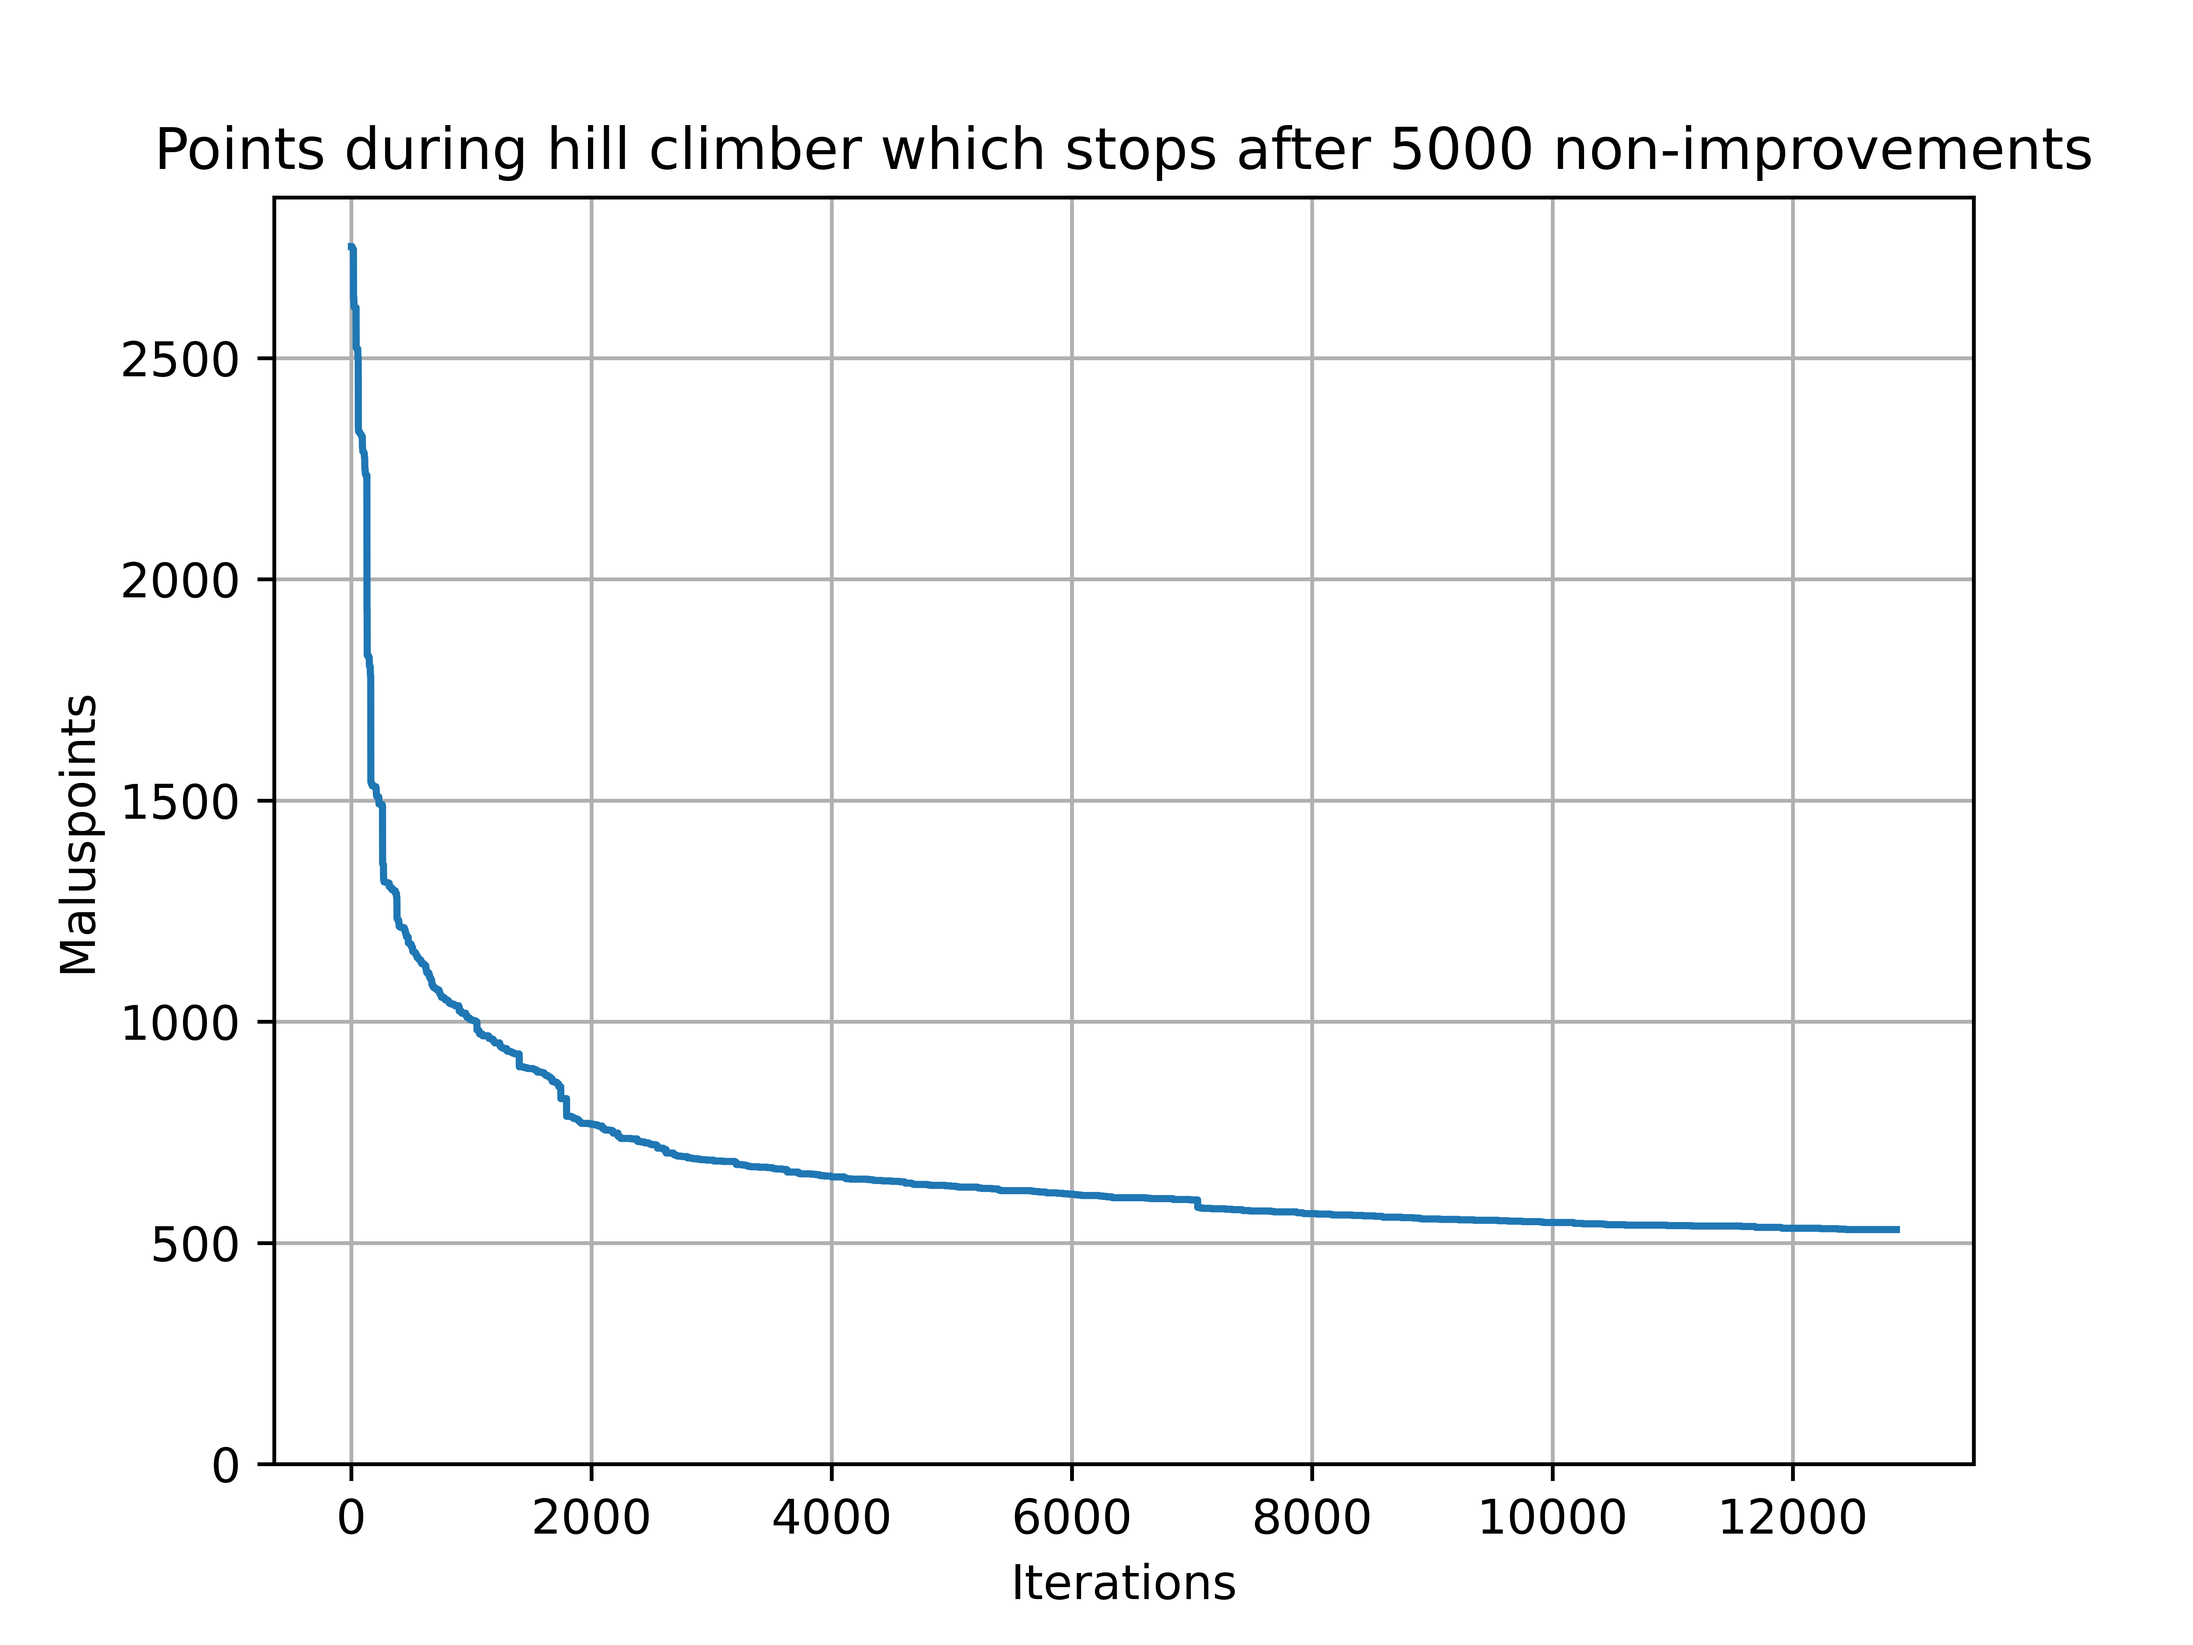
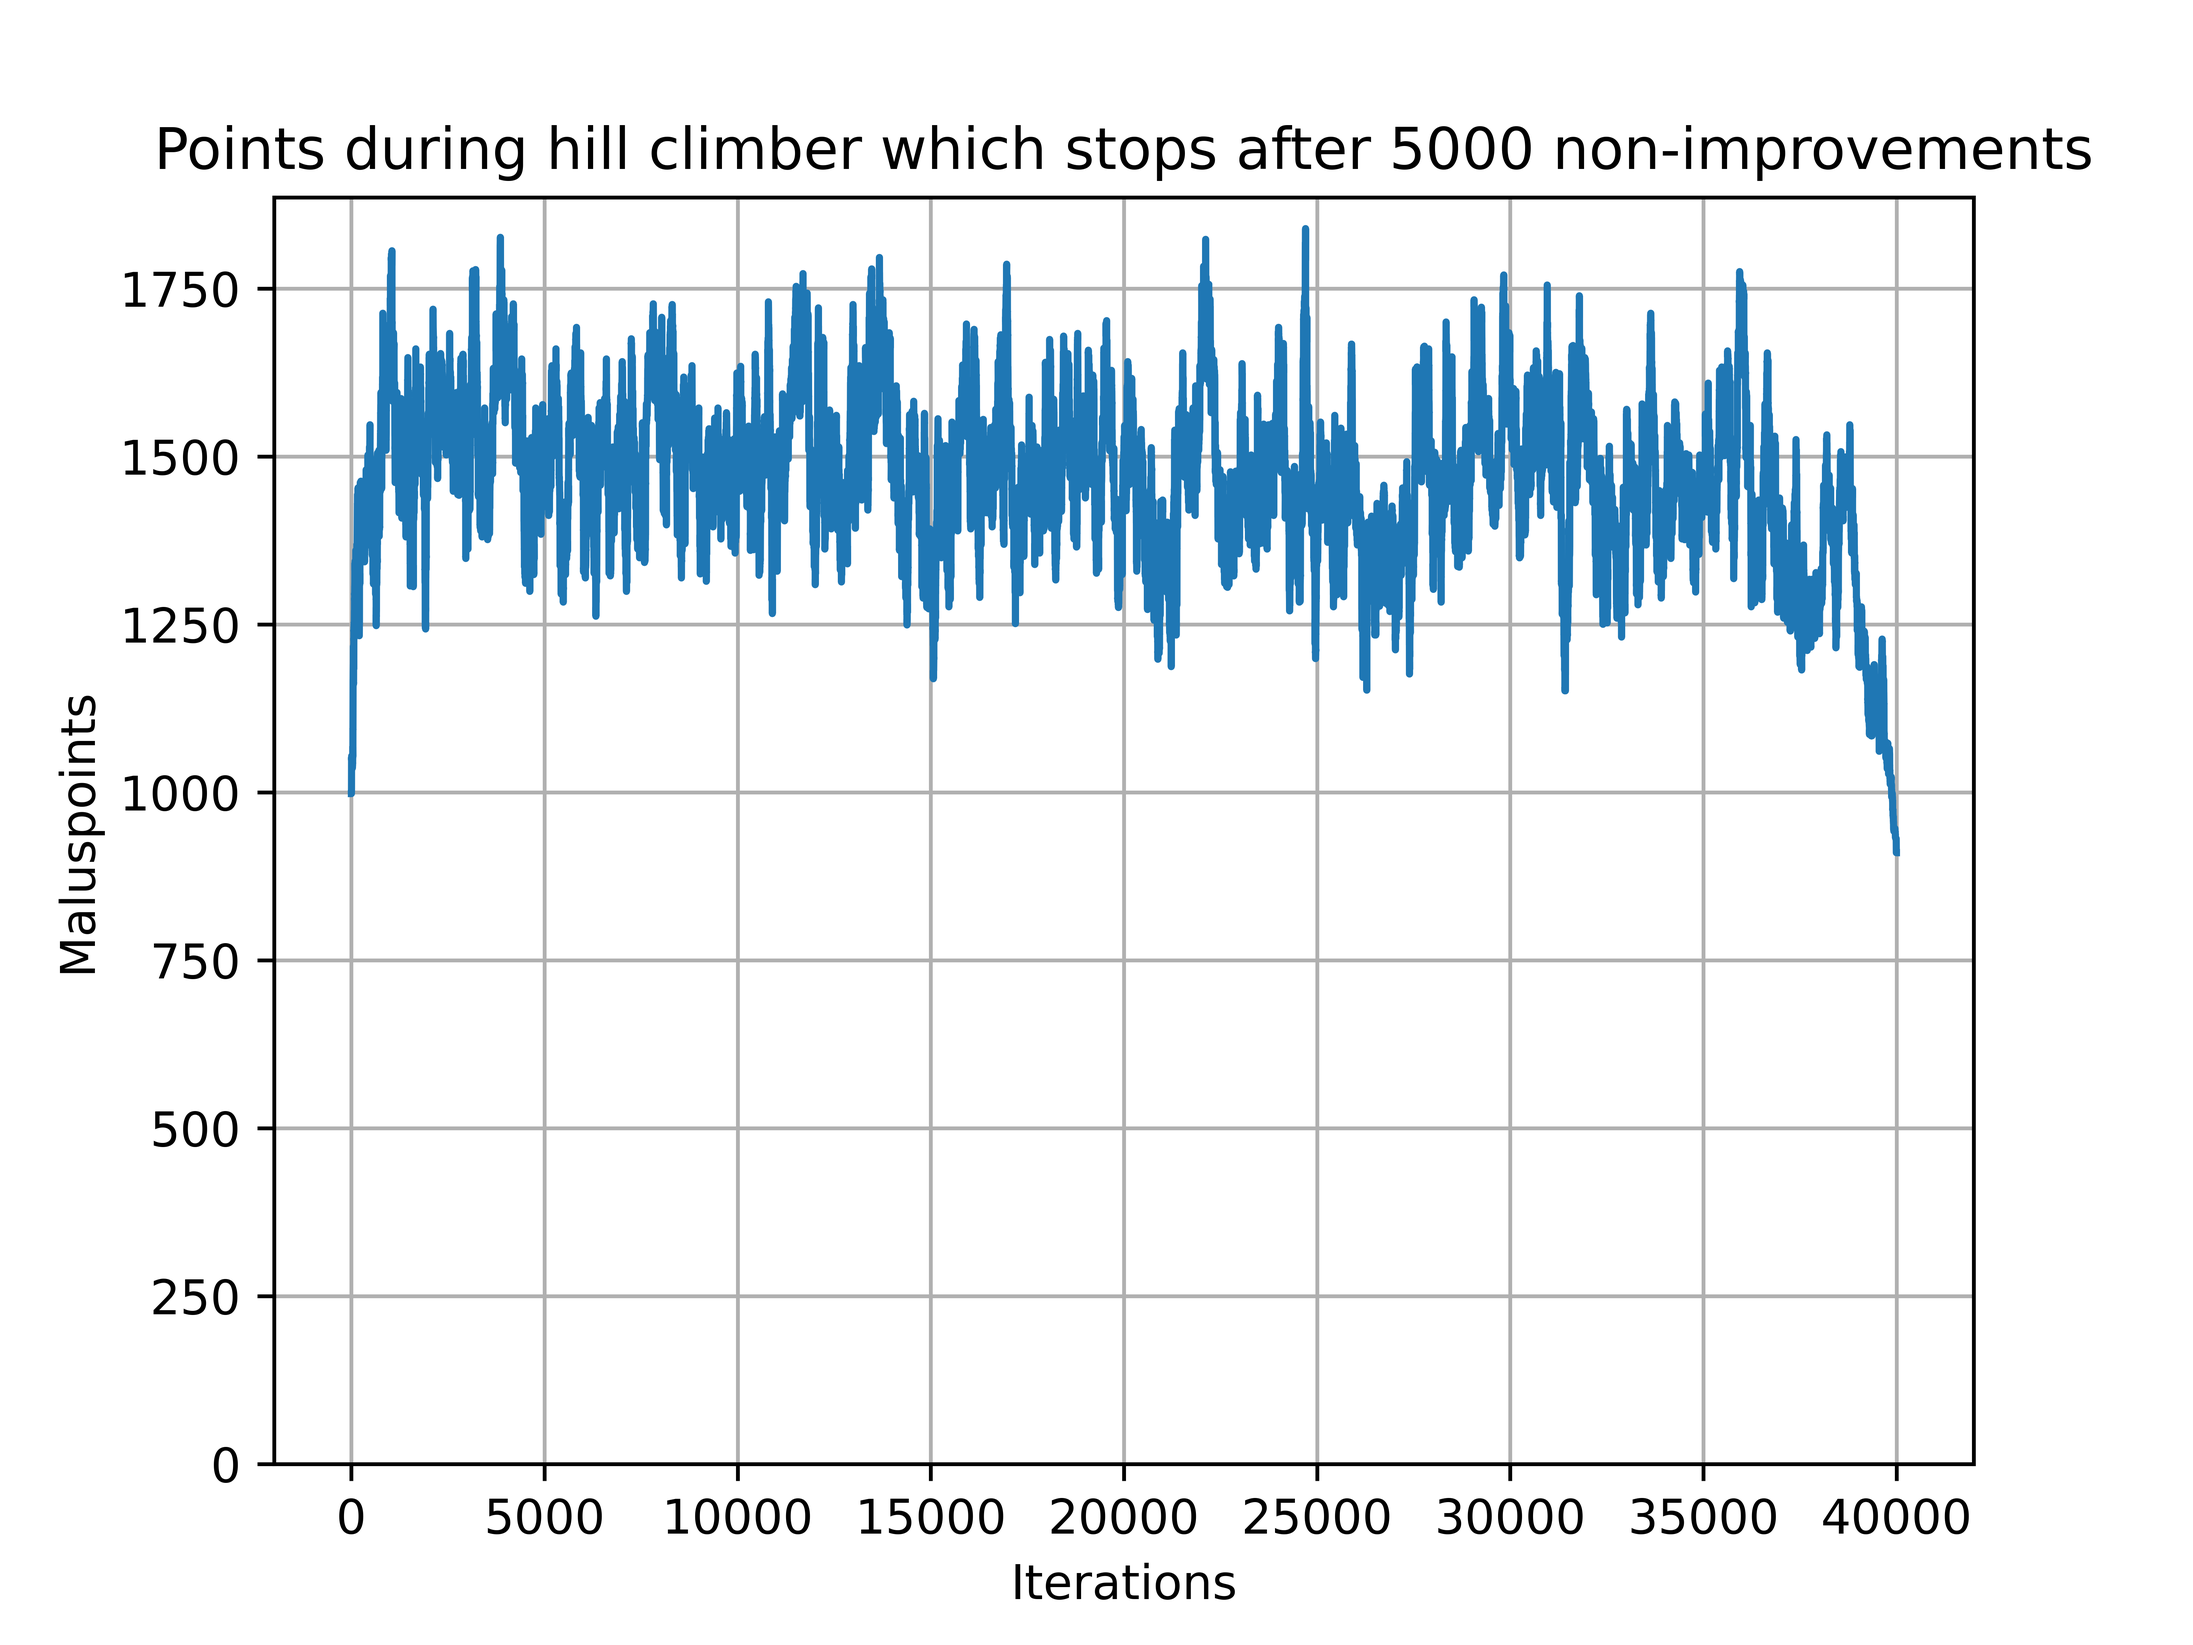
Added annealing to climbers

diff --git a/code/algorithms/hill_climber.py b/code/algorithms/hill_climber.py
@@ -119,7 +119,7 @@ class HillClimber:
         student_dict = self.planner.create_student_dict(self._students)
         old_points = checker(self.planner.slots, student_dict)
 
-        while streak < 300:
+        for x in range(20000):
             print(i, streak, old_points)
 
             index_activity_1, index_activity_2 = self.activity_switch()
@@ -144,6 +144,119 @@ class HillClimber:
 
             if new_points == False or new_points > old_points:
                 self.undo_reassign(random_group_1, random_group_2, random_student_1, random_student_2)
+                streak += 1
+            else:
+                if new_points < old_points:
+                    streak = 0
+                old_points = new_points
+
+            i += 1
+            self.plotx.append(i)
+            self.ploty.append(old_points)
+
+    def run_annealing_exp(self):
+        # Count current maluspoints
+        i = 0
+        student_dict = self.planner.create_student_dict(self._students)
+        old_points = checker(self.planner.slots, student_dict)
+        Tstart = old_points
+        for x in range(20000):
+
+            index_activity_1, index_activity_2 = self.activity_switch()
+            student_dict = self.planner.create_student_dict(self._students)
+            new_points = checker(self.planner.slots, student_dict)
+
+            T = Tstart * (0.9997**i)
+            if new_points == False:
+                chance = 0
+            else:
+                chance = 2**((old_points - new_points)/T)
+            print(i, old_points, T, new_points,chance)
+            r = random()
+
+            if new_points == False or r > chance:
+                self.undo_activity_switch(index_activity_1, index_activity_2)
+                streak += 1
+            else:
+                if new_points < old_points:
+                    streak = 0
+                old_points = new_points
+
+            i += 1
+            self.plotx.append(i)
+            self.ploty.append(old_points)
+
+            random_group_1, random_group_2, random_student_1, random_student_2 = self.reassign()
+            student_dict = self.planner.create_student_dict(self._students)
+            new_points = checker(self.planner.slots, student_dict)
+
+            T = Tstart * (0.9997**i)
+            if new_points == False:
+                chance = 0
+            else:
+                chance = 2**((old_points - new_points)/T)
+            print(i, old_points, T, new_points,chance)
+            r = random()
+
+            if new_points == False or r > chance:
+                self.undo_reassign(random_group_1, random_group_2,
+                                   random_student_1, random_student_2)
+                streak += 1
+            else:
+                if new_points < old_points:
+                    streak = 0
+                old_points = new_points
+
+            i += 1
+            self.plotx.append(i)
+            self.ploty.append(old_points)
+
+    def run_annealing_lin(self):
+        # Count current maluspoints
+        i = 0
+        student_dict = self.planner.create_student_dict(self._students)
+        old_points = checker(self.planner.slots, student_dict)
+        Tstart = old_points
+        for x in range(20000):
+
+            index_activity_1, index_activity_2 = self.activity_switch()
+            student_dict = self.planner.create_student_dict(self._students)
+            new_points = checker(self.planner.slots, student_dict)
+
+            T = Tstart - (Tstart/40000) * i
+            if new_points == False:
+                chance = 0
+            else:
+                chance = 2**((old_points - new_points)/T)
+            print(i, old_points, T, new_points,chance)
+            r = random()
+
+            if new_points == False or r > chance:
+                self.undo_activity_switch(index_activity_1, index_activity_2)
+            else:
+                if new_points < old_points:
+                    streak = 0
+                old_points = new_points
+
+            i += 1
+            self.plotx.append(i)
+            self.ploty.append(old_points)
+
+            random_group_1, random_group_2, random_student_1, random_student_2 = self.reassign()
+            student_dict = self.planner.create_student_dict(self._students)
+            new_points = checker(self.planner.slots, student_dict)
+
+            T = Tstart - (Tstart/40000) * i
+            if new_points == False:
+                chance = 0
+            else:
+                chance = 2**((old_points - new_points)/T)
+            print(i, old_points, T, new_points,chance)
+            r = random()
+
+            if new_points == False or r > chance:
+                self.undo_reassign(random_group_1, random_group_2,
+                                   random_student_1, random_student_2)
                 streak += 1
             else:
                 if new_points < old_points:

diff --git a/code/store.py b/code/store.py
@@ -18,10 +18,10 @@ def store(students_set, planner, min_points):
                 df_dict['activiteit'].append(activity._type)
                 df_dict['zaal'].append(room.name)
                 df_dict['dag'].append(day or 'tba')
-                df_dict['tijdslot'].append(time or 'tba') 
+                df_dict['tijdslot'].append(time or 'tba')
 
 
     results_df = pd.DataFrame.from_dict(df_dict, orient='columns', dtype=None, columns=None)
-    with open(f'data/climber{min_points}.csv', 'w+'):
+    with open(f'data/results/climber{min_points}.csv', 'w+'):
         pass
     results_df.to_csv(f'data/climber{min_points}.csv', sep = ';', index=False)
